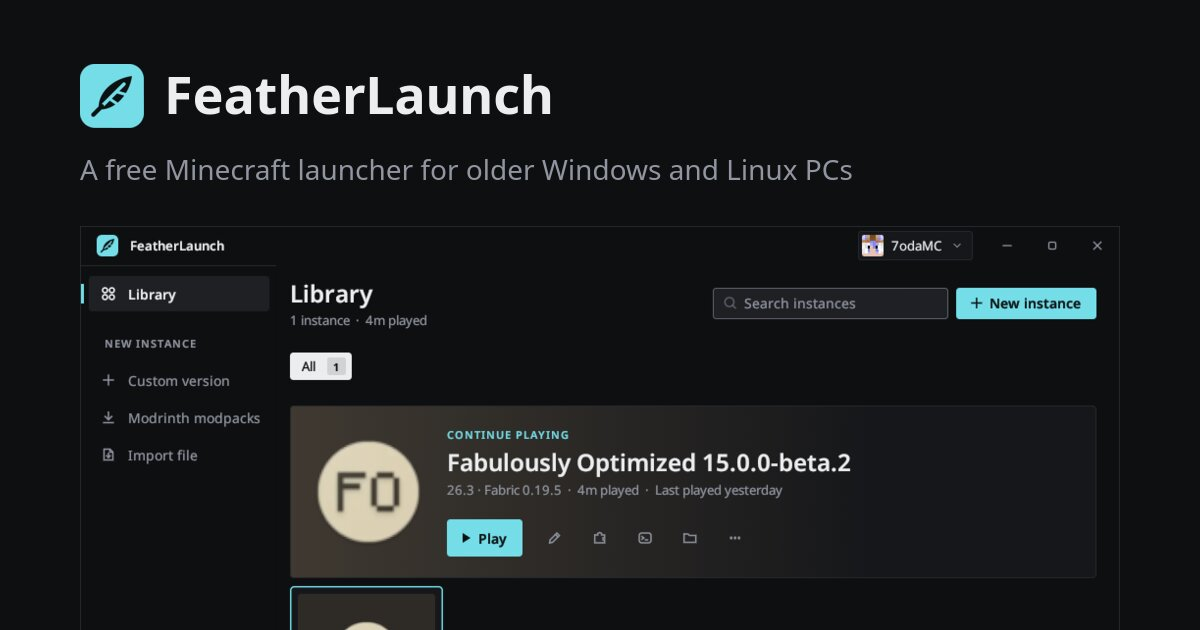
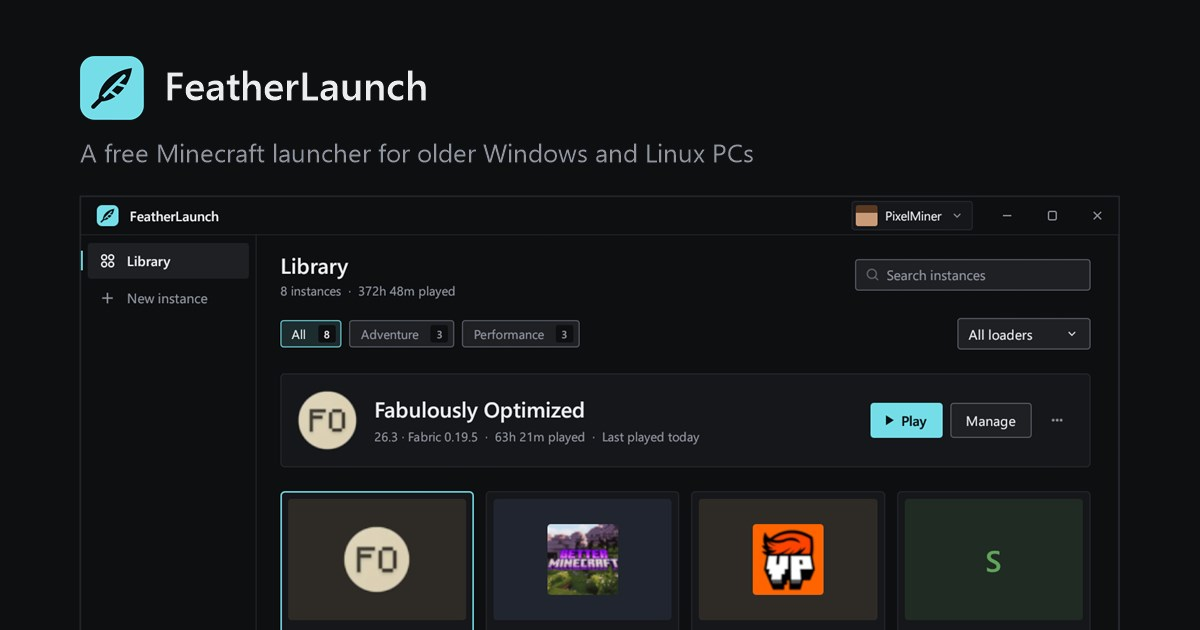
Update the site for 0.3.0
New screenshots of the redesigned launcher, with sections for Modrinth and new instances. The VirusTotal links are removed until the new files are uploaded.

diff --git a/index.html b/index.html
@@ -27,7 +27,7 @@
   "description": "A free, lightweight Minecraft: Java Edition launcher for older Windows and Linux PCs, with Modrinth mods and modpacks, mod loaders and Microsoft sign-in.",
   "applicationCategory": "GameApplication",
   "operatingSystem": "Windows 10, Windows 11, Linux",
-  "softwareVersion": "0.2.2",
+  "softwareVersion": "0.3.0",
   "fileSize": "6.9 MB",
   "downloadUrl": "https://github.com/mahmoudalnkeeb/featherlaunch-site/releases/latest",
   "screenshot": "https://featherlaunch.mahmoudalnakeeb.com/screenshot.png",
@@ -72,12 +72,12 @@
       <a class="btn primary" href="https://github.com/mahmoudalnkeeb/featherlaunch-site/releases/latest/download/featherlaunch.exe"><svg class="i" aria-hidden="true"><use href="#i-windows"/></svg>Download for Windows</a>
       <a class="btn" href="#download"><svg class="i" aria-hidden="true"><use href="#i-linux"/></svg>Linux and other options</a>
     </p>
-    <p class="fine">Version 0.2.2 · 6.9 MB · no installer · updates itself</p>
+    <p class="fine">Version 0.3.0 · 6.9 MB · no installer · updates itself</p>
   </div>
 
   <div class="wrap">
-    <img class="shot" src="screenshot.png" width="1060" height="680" fetchpriority="high"
-      alt="The FeatherLaunch library: a Continue playing banner for the Fabulously Optimized modpack with a Play button, and the instance card below">
+    <img class="shot" src="screenshot.png" width="1484" height="997" fetchpriority="high"
+      alt="The FeatherLaunch library: a bar for the selected Fabulously Optimized instance with Play and Manage buttons, above a grid of eight instances with their icons, grouped and filterable by loader">
   </div>
 
   <section id="features" class="wrap">
@@ -100,11 +100,37 @@
       <ul>
         <li>Real names and icons, even for mods you copied in by hand</li>
         <li>Switch a mod off without deleting it</li>
-        <li>Settings, mods, resource packs, shaders, worlds and log on one page</li>
+        <li>See which mods have updates, and update them all at once</li>
       </ul>
     </div>
-    <img src="mods.png" width="1060" height="680" loading="lazy"
-      alt="The instance page for Fabulously Optimized, listing 46 installed mods with icons and on/off switches">
+    <img src="mods.png" width="1484" height="997" loading="lazy"
+      alt="The instance page for Fabulously Optimized, listing installed mods with icons, on/off switches and new versions for two of them, with an Update all button">
+  </section>
+
+  <section class="wrap split flip">
+    <div>
+      <h2>Modrinth, built in</h2>
+      <ul>
+        <li>Search mods, resource packs and shaders for this instance's version and loader</li>
+        <li>Read about a project and pick a version before you install</li>
+        <li>Required dependencies install with it</li>
+      </ul>
+    </div>
+    <img src="browse.png" width="1484" height="997" loading="lazy"
+      alt="Browsing Modrinth from an instance: a list of popular mods on the left and details for Sodium on the right, with a version picker and an Install button">
+  </section>
+
+  <section class="wrap split">
+    <div>
+      <h2>A new instance in a few clicks</h2>
+      <ul>
+        <li>Every Minecraft release, with the latest already picked</li>
+        <li>Choose Fabric, Quilt, Forge or NeoForge, or stay on Vanilla</li>
+        <li>Or install a Modrinth modpack, or import a <code>.mrpack</code> file</li>
+      </ul>
+    </div>
+    <img src="new-instance.png" width="1484" height="997" loading="lazy"
+      alt="The New instance page: a list of Minecraft versions on the left, and name, group, mod loader and Create on the right">
   </section>
 
   <section class="wrap">
@@ -125,7 +151,7 @@
 
   <section id="download" class="wrap">
     <h2>Download</h2>
-    <p>Version 0.2.2. You need a Microsoft account that owns Minecraft: Java Edition. Once it has
+    <p>Version 0.3.0. You need a Microsoft account that owns Minecraft: Java Edition. Once it has
       signed in, you can also play offline.</p>
     <div class="downloads">
       <div>
@@ -133,8 +159,8 @@
         <p>Windows 10 or 11, 64-bit.</p>
         <p><a class="btn primary" href="https://github.com/mahmoudalnkeeb/featherlaunch-site/releases/latest/download/featherlaunch.exe">featherlaunch.exe</a></p>
         <div class="hash">
-          <span class="hash-head">SHA-256<a href="https://www.virustotal.com/gui/file/2c30c346a0e4ad086d24d504e1349256a1262d6cff3b97fdb728e2dcc2b4f4d6" rel="noopener" aria-label="VirusTotal report for featherlaunch.exe">VirusTotal report</a><button type="button" hidden aria-label="Copy the SHA-256 of featherlaunch.exe"><svg class="i" aria-hidden="true"><use href="#i-copy"/></svg><span>Copy</span></button></span>
-          <code>2c30c346a0e4ad086d24d504e1349256a1262d6cff3b97fdb728e2dcc2b4f4d6</code>
+          <span class="hash-head">SHA-256<button type="button" hidden aria-label="Copy the SHA-256 of featherlaunch.exe"><svg class="i" aria-hidden="true"><use href="#i-copy"/></svg><span>Copy</span></button></span>
+          <code>cb6c14f7eb6ade5f612416d1289dc9bdcf7fa9887d3554c4523af47dbfc93d7f</code>
         </div>
         <p class="fine">Keep it in a folder of your own, not Program Files, so it can update itself. It
           isn't code-signed yet, so Windows may show a SmartScreen warning: choose <b>More info</b>, then
@@ -146,8 +172,8 @@
         <p>64-bit, glibc 2.35 or newer (Ubuntu 22.04, Fedora 36, Debian 12 and later), X11 or Wayland.</p>
         <p><a class="btn primary" href="https://github.com/mahmoudalnkeeb/featherlaunch-site/releases/latest/download/featherlaunch-linux-x64.tar.gz">featherlaunch-linux-x64.tar.gz</a></p>
         <div class="hash">
-          <span class="hash-head">SHA-256<a href="https://www.virustotal.com/gui/file/1ce755e0cefec650ba8c6858e0515fc44fe0b5422f53121502e4f842014861f3" rel="noopener" aria-label="VirusTotal report for featherlaunch-linux-x64.tar.gz">VirusTotal report</a><button type="button" hidden aria-label="Copy the SHA-256 of featherlaunch-linux-x64.tar.gz"><svg class="i" aria-hidden="true"><use href="#i-copy"/></svg><span>Copy</span></button></span>
-          <code>1ce755e0cefec650ba8c6858e0515fc44fe0b5422f53121502e4f842014861f3</code>
+          <span class="hash-head">SHA-256<button type="button" hidden aria-label="Copy the SHA-256 of featherlaunch-linux-x64.tar.gz"><svg class="i" aria-hidden="true"><use href="#i-copy"/></svg><span>Copy</span></button></span>
+          <code>e8abf2783f7e1d60a1b88d9b1e4abf88f14e4e1d44e2f6fc1ae436cdc7b2a73d</code>
         </div>
         <p class="fine">Extract it anywhere and run <code>featherlaunch/featherlaunch</code>. It adds itself
           to your app menu. To stay signed in it needs a keyring such as GNOME Keyring or KWallet.</p>
@@ -183,7 +209,7 @@
       <ul class="rows">
         <li><b>Your system</b><span>Your Windows or Linux version.</span></li>
         <li><b>What happened</b><span>What you were doing when it went wrong.</span></li>
-        <li><b>The log file</b><span><code>launcher.log</code> from the launcher's data folder: in the launcher, open Settings, then the folder button.</span></li>
+        <li><b>The log file</b><span><code>launcher.log</code> from the launcher's data folder: in the launcher, open Settings, then choose Open under Data folder.</span></li>
       </ul>
       <p class="fine">The log holds error messages only, no passwords or sign-in tokens.</p>
     </div>

diff --git a/style.css b/style.css
@@ -133,7 +133,12 @@ section b { color: var(--text); }
 
 .split { display: grid; grid-template-columns: 1fr 1.4fr; gap: 32px; align-items: center; }
 .split img { display: block; border: 1px solid var(--border); border-radius: var(--r-lg); }
-@media (max-width: 760px) { .split { grid-template-columns: 1fr; } }
+.split.flip { grid-template-columns: 1.4fr 1fr; }
+.split.flip img { order: -1; }
+@media (max-width: 760px) {
+  .split, .split.flip { grid-template-columns: 1fr; }
+  .split.flip img { order: 0; }
+}
 
 .stats { display: grid; grid-template-columns: repeat(3, 1fr); gap: 16px; list-style: none; margin: 16px 0 10px; padding: 0; }
 .stats li { background: var(--surface); border: 1px solid var(--border); border-radius: var(--r-lg); padding: 20px; color: var(--muted); font-size: 14px; }
